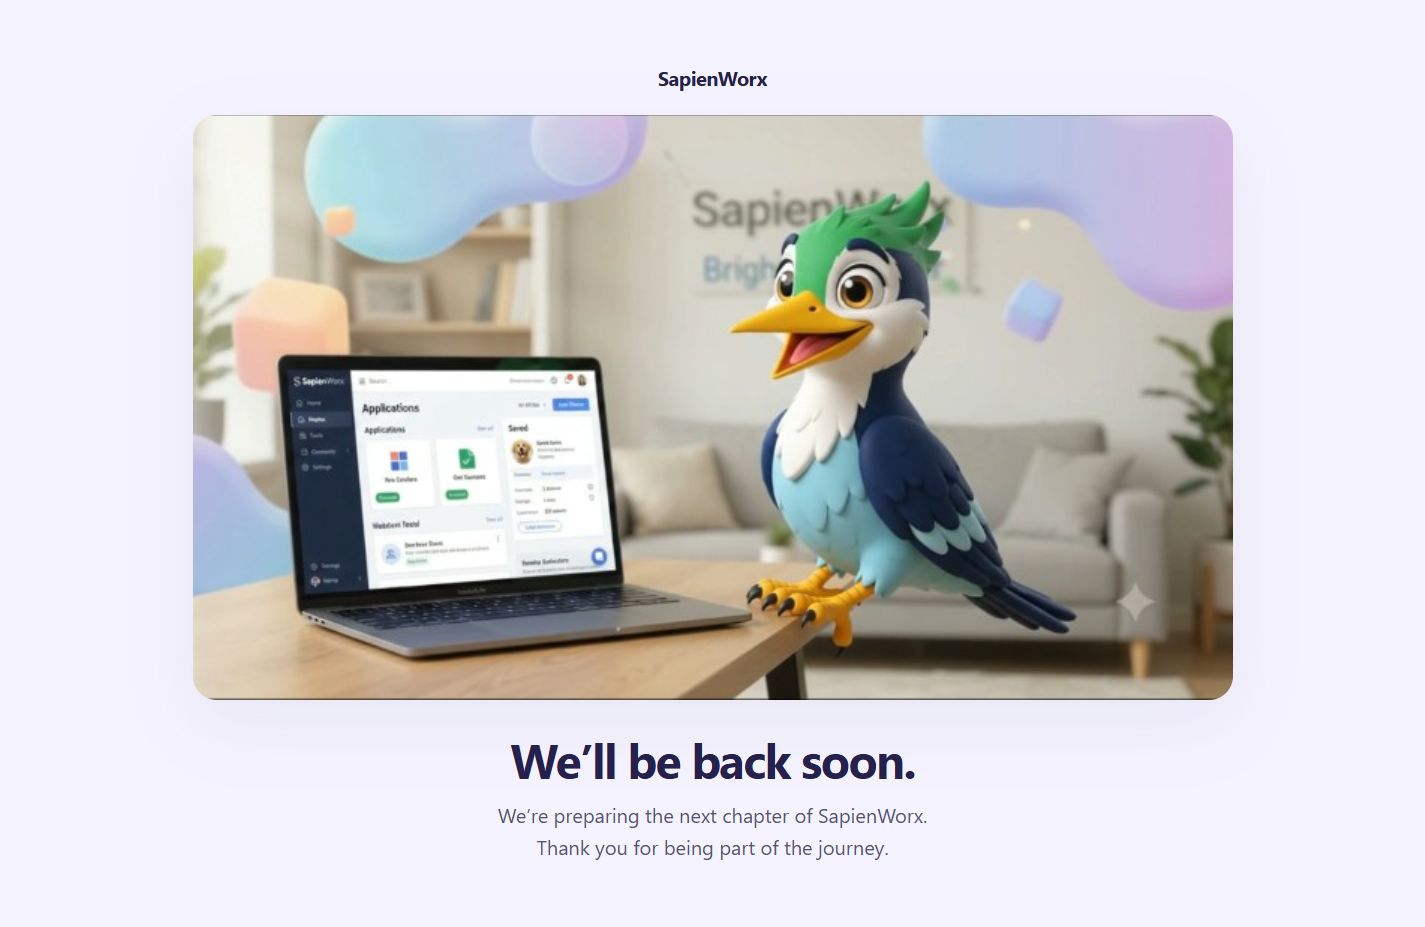
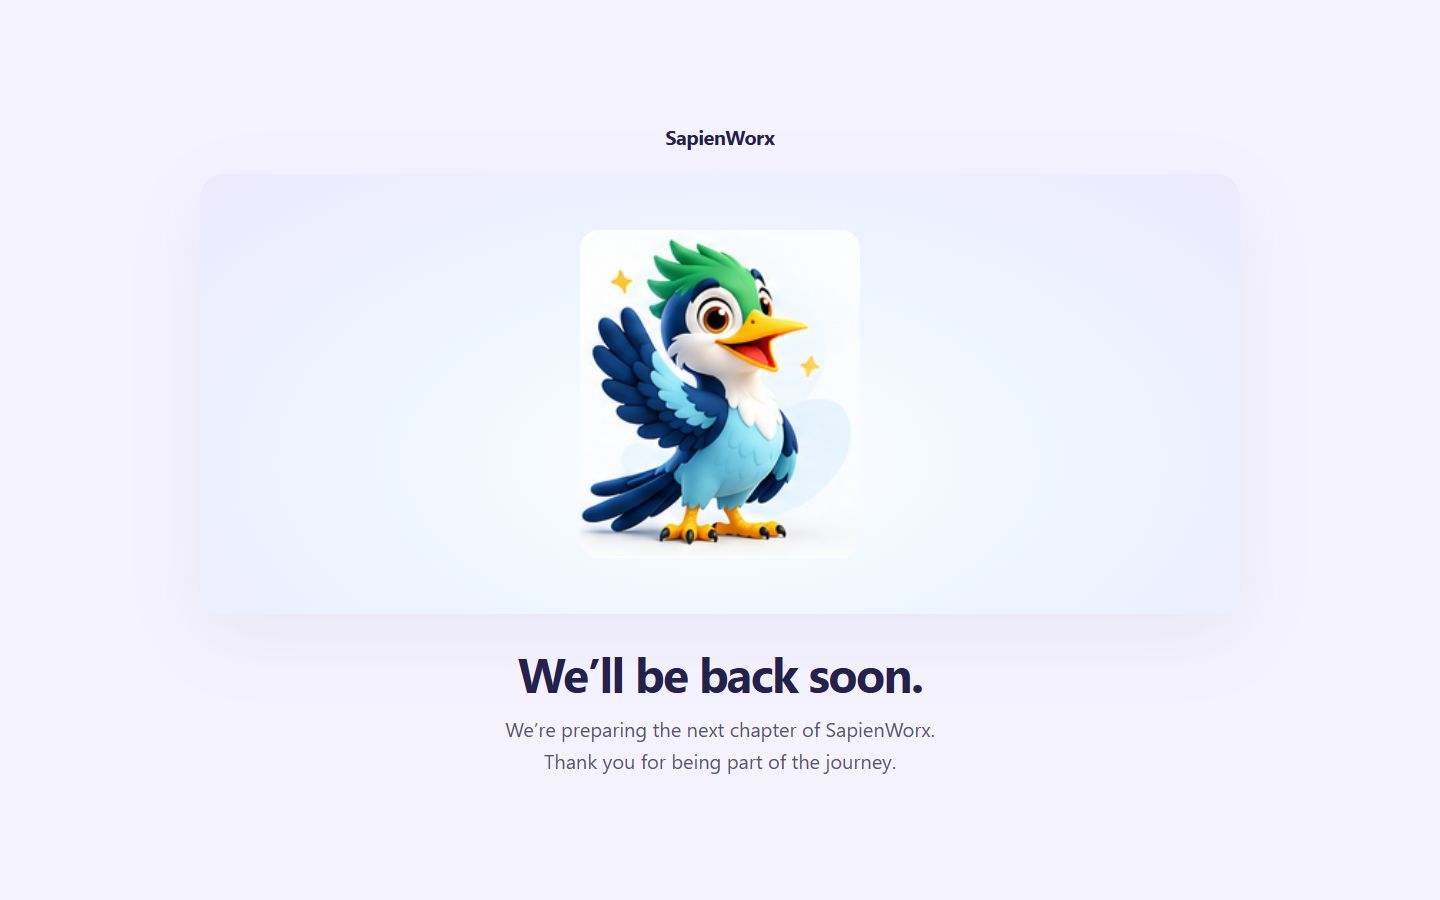
style(holding): use supplied woodpecker welcome artwork

diff --git a/deploy/holding/public/index.html b/deploy/holding/public/index.html
@@ -11,8 +11,11 @@
     body { margin: 0; min-height: 100svh; display: flex; align-items: center; justify-content: center; padding: clamp(20px, 5vw, 64px); background: #f5f3ff; color: #25204c; font-family: system-ui, sans-serif; }
     main { width: 100%; max-width: 1040px; text-align: center; }
     .brand { margin: 0 0 24px; font-size: 20px; font-weight: 750; letter-spacing: -.025em; }
-    .art { margin: 0 auto; aspect-ratio: 16 / 9; overflow: hidden; border-radius: 24px; background: #ede9fe; box-shadow: 0 24px 70px #43387812; }
-    img { display: block; width: 100%; height: 100%; object-fit: cover; object-position: center; }
+    .art { margin: 0 auto; display: grid; place-items: center; min-height: clamp(320px, 38vw, 440px); padding: 24px; border-radius: 24px; background: radial-gradient(ellipse at 50% 65%, #ffffff 0%, #eef6ff 45%, #ede9fe 100%); box-shadow: 0 24px 70px #43387812; }
+    /* Frame the supplied welcome pose at x=20,y=344,w=196,h=230
+       in the original 1536x1024 sheet. Keep the source image unchanged. */
+    .mascot { position: relative; width: min(100%, 280px); aspect-ratio: 196 / 230; overflow: hidden; border-radius: 20px; background: #fff; }
+    .mascot img { position: absolute; display: block; max-width: none; width: 783.673469%; height: 445.217391%; left: -10.204082%; top: -149.565217%; }
     h1 { margin: 32px 0 12px; font-size: clamp(28px, 5vw, 48px); line-height: 1.15; letter-spacing: -.035em; }
     .message { max-width: 42ch; margin: auto; color: #575273; font-size: clamp(16px, 2vw, 20px); line-height: 1.6; }
   </style>
@@ -20,7 +23,7 @@
 <body>
   <main>
     <p class="brand">SapienWorx</p>
-    <div class="art"><img src="/mascot.png" alt="The SapienWorx mascot welcomes you." width="720" height="420"></div>
+    <div class="art"><div class="mascot"><img src="/mascot.png?v=welcome-sheet-1" alt="The SapienWorx woodpecker mascot waves a warm welcome." width="1536" height="1024"></div></div>
     <h1>We’ll be back soon.</h1>
     <p class="message">We’re preparing the next chapter of SapienWorx. Thank you for being part of the journey.</p>
   </main>

diff --git a/deploy/holding/README.md b/deploy/holding/README.md
@@ -1,10 +1,14 @@
 # Public mascot holding bundle
 
-Prepared for owner review; not deployed. `public/mascot.png` is the original
-3D woodpecker reference `1000185808.png` retrieved from the owner's
-“Create Sapienworx Mascot” chat. CSS frames its central banner without modifying
-the original image. No generated image is included. The page is self-contained
-HTML/CSS with no JavaScript or external URLs.
+Prepared for owner review; not deployed. `public/mascot.png` is the owner's
+original `SapienWorx Mascot Asset Sheet.png`, supplied on 2026-10-04. CSS frames
+the welcome pose (x=20, y=344, width=196, height=230 in the 1536x1024 sheet)
+without modifying its pixels or displaying the sheet's labels. The companion
+`SapienWorx Woodpecker Mascot System.png` is preserved in
+`references/woodpecker-system.png`, outside the served public directory.
+No generated image is included. The page is self-contained HTML/CSS with no
+JavaScript or external URLs. The printed filenames in the asset sheet are
+reference labels; individual PNG files were not supplied.
 
 `Caddyfile` serves only apex/www static files and returns 404 for API/health paths.
 Other missing paths return 404 rather than falling through to a live application.

diff --git a/docs/p3/PUBLIC-HOLDING-PLAN.md b/docs/p3/PUBLIC-HOLDING-PLAN.md
@@ -49,8 +49,8 @@ and IPv4 pricing at https://aws.amazon.com/vpc/pricing/.
 
 ## Ordered cutover and recovery
 
-1. The original 3D woodpecker reference has been retrieved from the owner's
-   “Create Sapienworx Mascot” chat and included in `deploy/holding/public`.
+1. The owner's supplied mascot asset sheet is included in `deploy/holding/public`;
+   the welcome pose is framed in CSS and both supplied source sheets are preserved.
    Visually review the static page at mobile and desktop sizes. Assets are
    served locally, with no tracking, external integrations, login or API proxy.
 2. Complete the beta infrastructure approval gate (`APPROVE BETA INFRA APPLY`),
